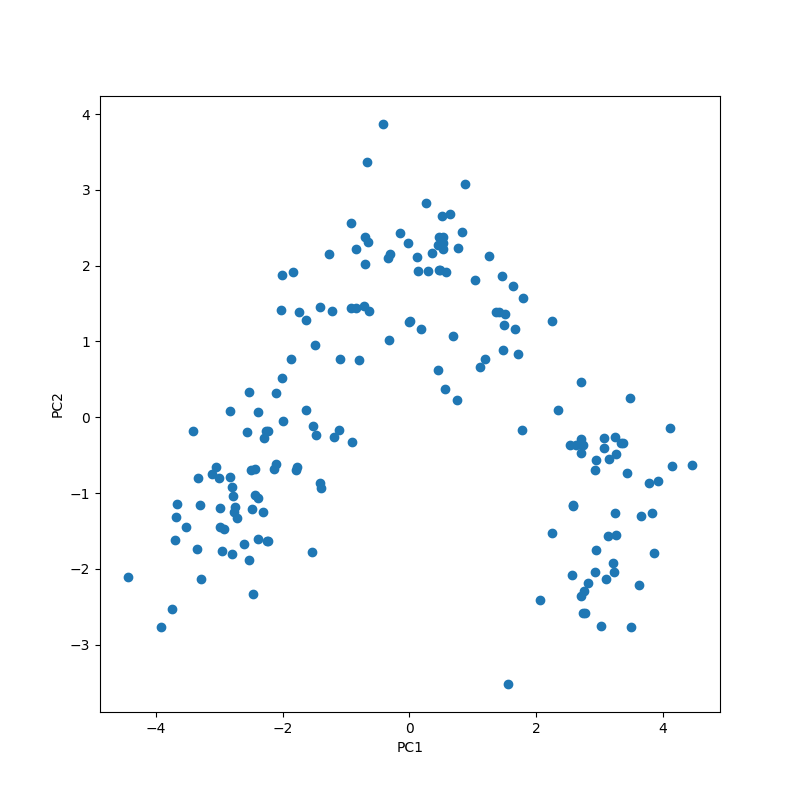
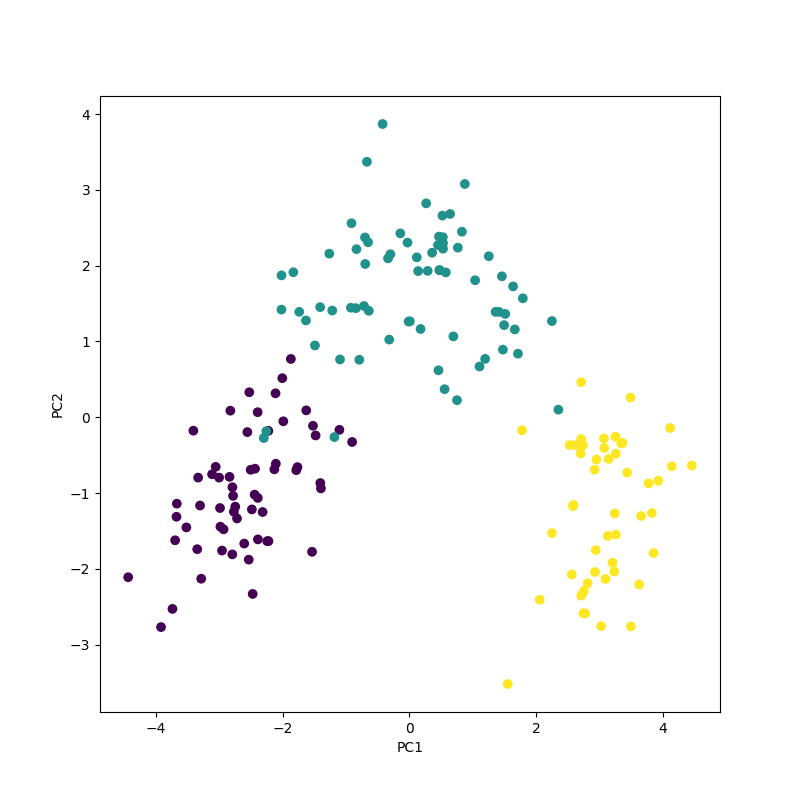
coloring

diff --git a/src/07_principal_component_analysis/main.py b/src/07_principal_component_analysis/main.py
@@ -21,7 +21,7 @@ x = X_pca[:, 0]
 y = X_pca[:, 1]
 
 plt.figure(figsize=(8, 8))
-plt.scatter(x, y)
+plt.scatter(x, y, c=list(df_wine.iloc[:, 0]))
 plt.xlabel("PC1")
 plt.ylabel("PC2")
 plt.savefig(p.join(current_dir, './pca.png'))
